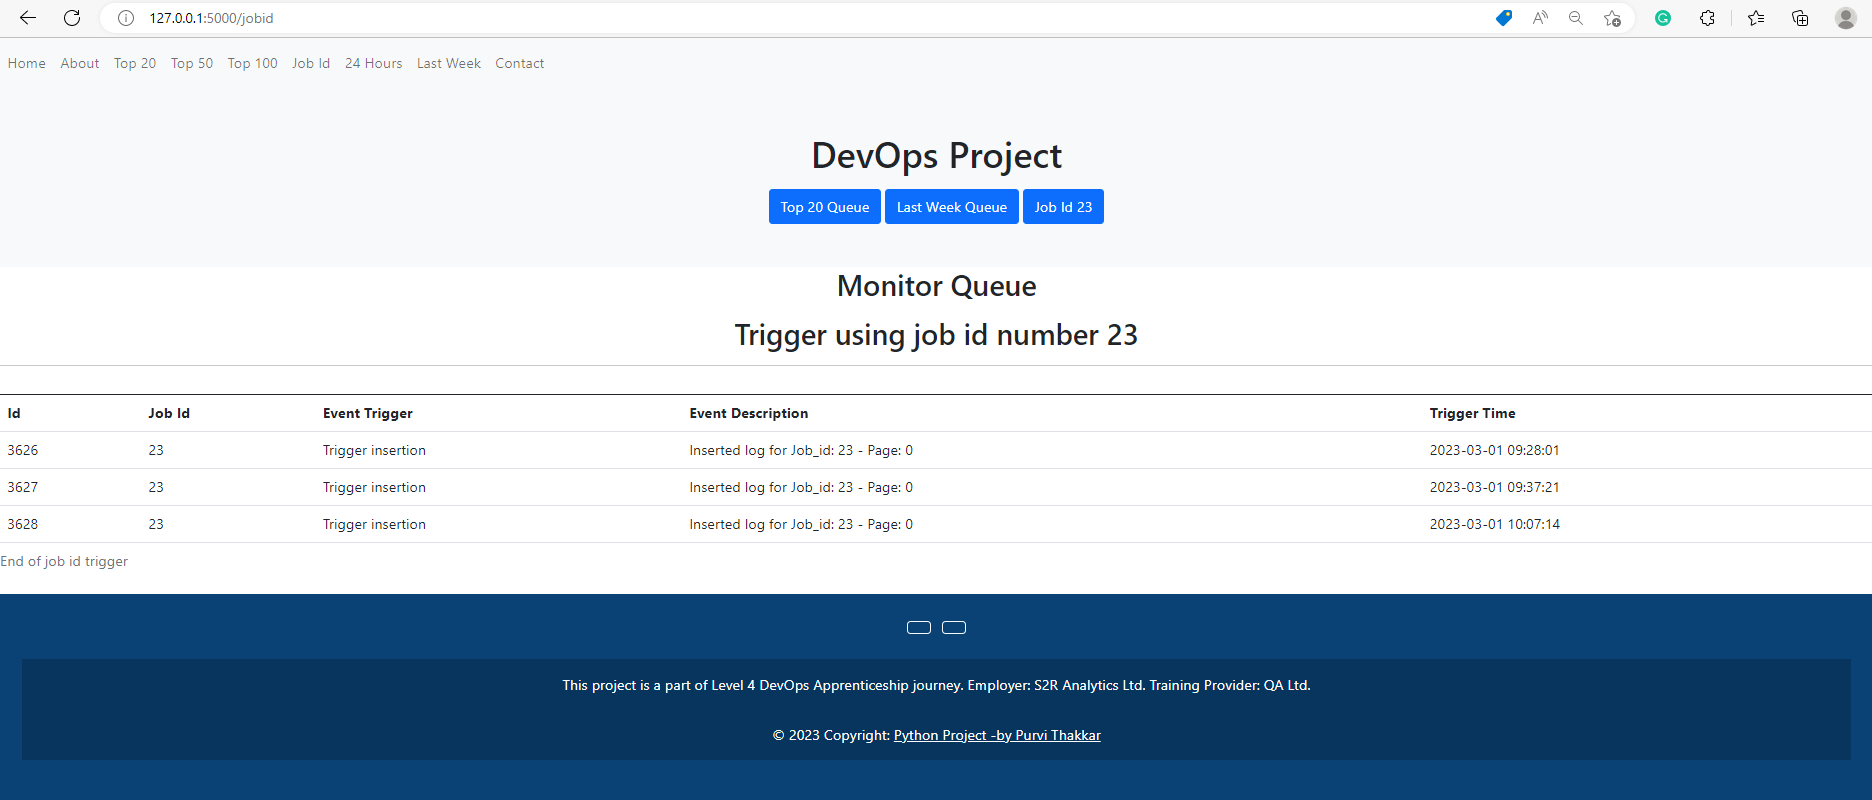
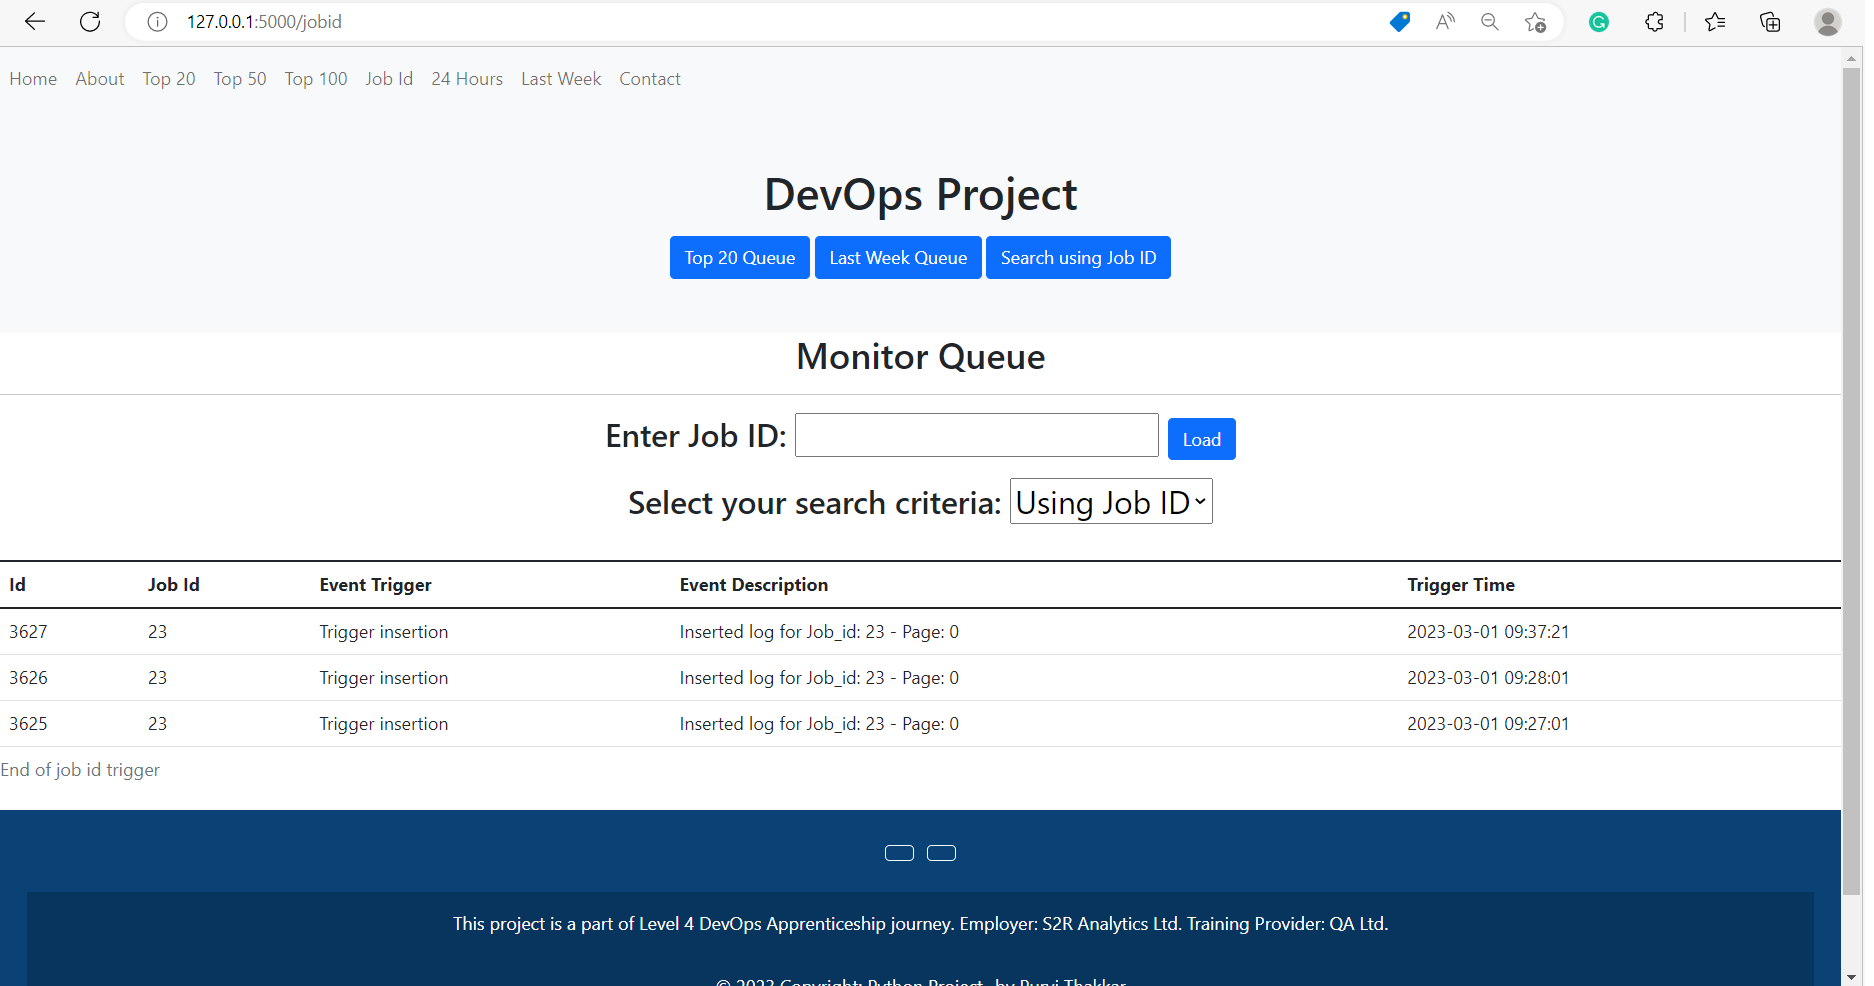
Initial commit

diff --git a/templates/jobid.html b/templates/jobid.html
@@ -12,10 +12,67 @@
 
  {% extends "template.html" %}
   {% block content %}
+<center>
+<h2 class="mb-3">Monitor Queue</h2>
+   <hr/>
 
-<center><h2 class="mb-3">Monitor Queue</h2>
-    <h2 class="mb-3">Trigger using job id number 23</h2> </center><hr/>
-      <center><div class="table-responsive">
+<!----------------------------- FORM IN BODY ----------------------------->
+      <form method="POST" action="/jobid">
+      <label for="jobIdEntry"><h3 class="mb-3">Enter Job ID:
+      <input id="jobIdEntry" type="number" name="job_id">
+{#          <input id="lastweek" type="number" name="last_week">#}
+{#          <input id="hours24" type="number" name="hours_24">#}
+      <button class="btn btn-primary" type="submit">Load</button></h3></label>
+      </form>
+
+      <form method="POST" action="/jobid">
+      <label for="jobIdEntry"><h3 class="mb-3">Select your search criteria:
+          <select name = "dropdown">
+          <option value = "jobid" href="jobid.html">Using Job ID</option>
+            <option value = "lastweek" href="lastweek.html">Last Week</option>
+            <option value = "hours24" href="hours24.html">24 Hours</option></select>
+{#          <input id="jobIdEntry" type="number" name="job_id">#}
+{#          <input id="Last Week" type="number" name="job_id">#}
+{#          <input id="24 Hours" type="number" name="job_id">#}
+
+      <div id="id" style="background-color: white; display: none;></div>
+      href="/jobid.html"</h1>
+      </div>
+
+      <div id="lw" style="background-color: white; display: none;></div>
+        <h1>"/lastweek.html"</h1>
+        </div>
+
+      <div id="24" style="background-color: white; display: none;></div>
+        href="hours24.html"
+        </div>
+
+      <script>
+      function showMe(value) {
+          if (value=="jobid") {
+              document.getElementById('id').style.display = "block";
+              document.getElementById('lw').style.display = "none";
+              document.getElementById('24').style.display = "none";
+          }
+          if (value=="lastweek") {
+              document.getElementById('id').style.display="none";
+              document.getElementById('lw').style.display="block";
+              document.getElementById('24').style.display="none";
+          }
+          if (value=="hours24") {
+              document.getElementById('id').style.display="none";
+              document.getElementById('lw').style.display="none";
+              document.getElementById('24').style.display="block";
+          }
+      }
+      </script>
+      <button class="btn btn-primary" type="submit">Load</button></h3></label>
+
+
+      <!----------------------------- FORM COMPLETE ----------------------------->
+
+
+      <div class="table-responsive">
         <table class="table">
           <table class="table">
   <caption>End of job id trigger </caption>
@@ -37,7 +94,7 @@
     </tr>
 {% endfor %}
 
-          </table></div></center>
+          </table></div>
 
  {% endblock %}
 

diff --git a/templates/template.html b/templates/template.html
@@ -5,7 +5,7 @@
 <html lang="en">
 <!--      dir="ltr" xmlns="http://www.w3.org/1999/html">-->
  <head>
-              <title>Python Project using Flask and SQL </title>
+{#              <title>Python Project using Flask and SQL </title>#}
 
     <meta charset="utf-8">
          <meta name="viewport" content="width=device-width, initial-scale=1">
@@ -53,7 +53,7 @@
     <h1 class="mb-3">DevOps Project</h1>
     <a class="btn btn-primary" href="/top20" role="button">Top 20 Queue</a>
       <a class="btn btn-primary" href="/lastweek" role="button">Last Week Queue</a>
-      <a class="btn btn-primary" href="/jobid" role="button">Job Id 23</a>
+      <a class="btn btn-primary" href="/jobid" role="button">Search using Job ID</a>
   </div>
 </header>
 <!----------------------------- HEADER END ----------------------------->

diff --git a/templates/home.html b/templates/home.html
@@ -15,7 +15,7 @@
 
       <center>
     <hr>
-     <h2 class="mb-3">Python Project using Flask and SQL2 </h2>
+     <h2 class="mb-3">Python Project using Flask and SQL </h2>
       <h5 class="mb-3">(S2R Analytics - QA DevOps Apprenticeship Level 4.)<hr></h5>
     </center>
 

diff --git a/data.py b/data.py
@@ -1,11 +1,5 @@
-import pyodbc
+from variable import cursor
 
-conn = pyodbc.connect('DRIVER={ODBC Driver 17 for SQL Server};'
-                      'SERVER=byltinsyte-dev-sql-server-eu.database.windows.net;'
-                      'DATABASE=Monitor;'
-                      'UID=byltinsytesqladmin;'
-                      'PWD=bf534015-fa65-4d38-a438-42548e4536cc;')
-cursor = conn.cursor()
 
 print("\n----------------------- DESC -----------------------")
 cursor.execute('select * from dbo.logs2 ORDER BY trigger_time DESC').fetchone()
@@ -34,13 +28,6 @@ for i in row:
 print("\n----------------------- APP TOP 20 -----------------------")
 
 def top20():
-    conn = pyodbc.connect('DRIVER={ODBC Driver 17 for SQL Server};'
-                          'SERVER=byltinsyte-dev-sql-server-eu.database.windows.net;'
-                          'DATABASE=Monitor;'
-                          'UID=byltinsytesqladmin;'
-                          'PWD=bf534015-fa65-4d38-a438-42548e4536cc;')
-    cursor = conn.cursor()
-
     cursor.execute('SELECT TOP(21) id, event_trigger, event_description, trigger_time FROM dbo.logs2 ORDER BY trigger_time DESC').fetchone()
     result = cursor.fetchall()
     count = 0
@@ -53,41 +40,14 @@ print("\n----------------------- APP TOP 100 -----------------------")
 
 
 def top100():
-    conn = pyodbc.connect('DRIVER={ODBC Driver 17 for SQL Server};'
-                          'SERVER=byltinsyte-dev-sql-server-eu.database.windows.net;'
-                          'DATABASE=Monitor;'
-                          'UID=byltinsytesqladmin;'
-                          'PWD=bf534015-fa65-4d38-a438-42548e4536cc;')
-    cursor = conn.cursor()
     cursor.execute('SELECT TOP(100) id, job_id, event_trigger, event_description, trigger_time FROM dbo.logs2 ORDER BY trigger_time DESC').fetchone()
     result = cursor.fetchall()
     count = 0
     for i in result:
         count += 1
         print(f"Queue {count} = {i}")
-    # return render_template(f'top100.html', top100=result100)
 
 
 top100()
 
-
-# def jobid():
-#     conn = pyodbc.connect('DRIVER={ODBC Driver 17 for SQL Server};'
-#                           'SERVER=byltinsyte-dev-sql-server-eu.database.windows.net;'
-#                           'DATABASE=Monitor;'
-#                           'UID=byltinsytesqladmin;'
-#                           'PWD=bf534015-fa65-4d38-a438-42548e4536cc;')
-#     cursor = conn.cursor()
-#     id = int(input("Please choose a number (1-3): "))
-#     job_id = id
-#     cursor.execute('select * from dbo.logs2 where {{{job_id}}}').fetchone()
-#     result = cursor.fetchall()
-#     count = 0
-#     for i in result:
-#         count += 1
-#         print(f"Queue {count} = {i}")
-#
-
-
-conn.close()
 

diff --git a/app.py b/app.py
@@ -1,5 +1,5 @@
 import logging
-from flask import Flask, render_template
+from flask import Flask, render_template, request
 from variable import cursor
 
 logging.basicConfig()
@@ -41,31 +41,40 @@ def top100():
     row = cursor.fetchall()
     return render_template(f'top100.html', top100=row)
 
-# @app.route("/jobid")
-# def jobid():
-#     cursor.execute('select * from dbo.logs2 where job_id=2').fetchone()
-#     row = cursor.fetchall()
-#     return render_template(f'jobid.html', jobid=row)
 
-@app.route("/jobid")
+@app.route("/jobid", methods=['GET'])
 def jobid():
-    cursor.execute('select * from dbo.logs2 where job_id=23').fetchone()
+    return render_template(f'jobid.html')
+
+
+@app.route("/jobid", methods=['POST'])
+def getjob():
+    id_ = request.form.get("job_id")
+    cursor.execute(f"select * from dbo.logs2 where job_id={id_} ORDER BY trigger_time DESC").fetchone()
     row = cursor.fetchall()
     return render_template(f'jobid.html', jobid=row)
 
+
 @app.route("/hours24")
 def hours24():
-    cursor.execute('SELECT  * FROM dbo.logs2 WHERE trigger_time >= DATEADD(day, -1, GETDATE())').fetchone()
+    id_ = request.form.get("hours_24")
+    cursor.execute('SELECT  * FROM dbo.logs2 WHERE trigger_time >= DATEADD(day, -1, GETDATE()) ORDER BY trigger_time DESC').fetchone()
     row = cursor.fetchall()
     return render_template(f'hours24.html', hours24=row)
 
+
 @app.route("/lastweek")
 def lastweek():
+    id_ = request.form.get("last_week")
     cursor.execute('SELECT  * FROM dbo.logs2 WHERE trigger_time > (SELECT DATEADD(WEEK, -1, GETDATE())) ORDER BY trigger_time DESC').fetchone()
     row = cursor.fetchall()
     return render_template(f'lastweek.html', lastweek=row)
 
 
+
 if __name__ == "__main__":
     app.run(debug=True)
+
+
+
 

diff --git a/variable.py b/variable.py
@@ -8,3 +8,10 @@ connection = pyodbc.connect('DRIVER={ODBC Driver 17 for SQL Server};'
                           'PWD=bf534015-fa65-4d38-a438-42548e4536cc;')
 conn = connection
 cursor = conn.cursor()
+#
+# INSERT INTO dbo.logs2
+# (job_id, event_trigger, event_description, trigger_time, processing_page)
+# VALUES
+# (2, 'trigger', 'inserting',  CURRENT_TIMESTAMP, 0)
+
+# INSERT INTO dbo.logs2 (job_id, event_trigger, event_description, trigger_time, processing_page) VALUES (3, 'trigger', 'inserting',  CURRENT_TIMESTAMP, 0)
